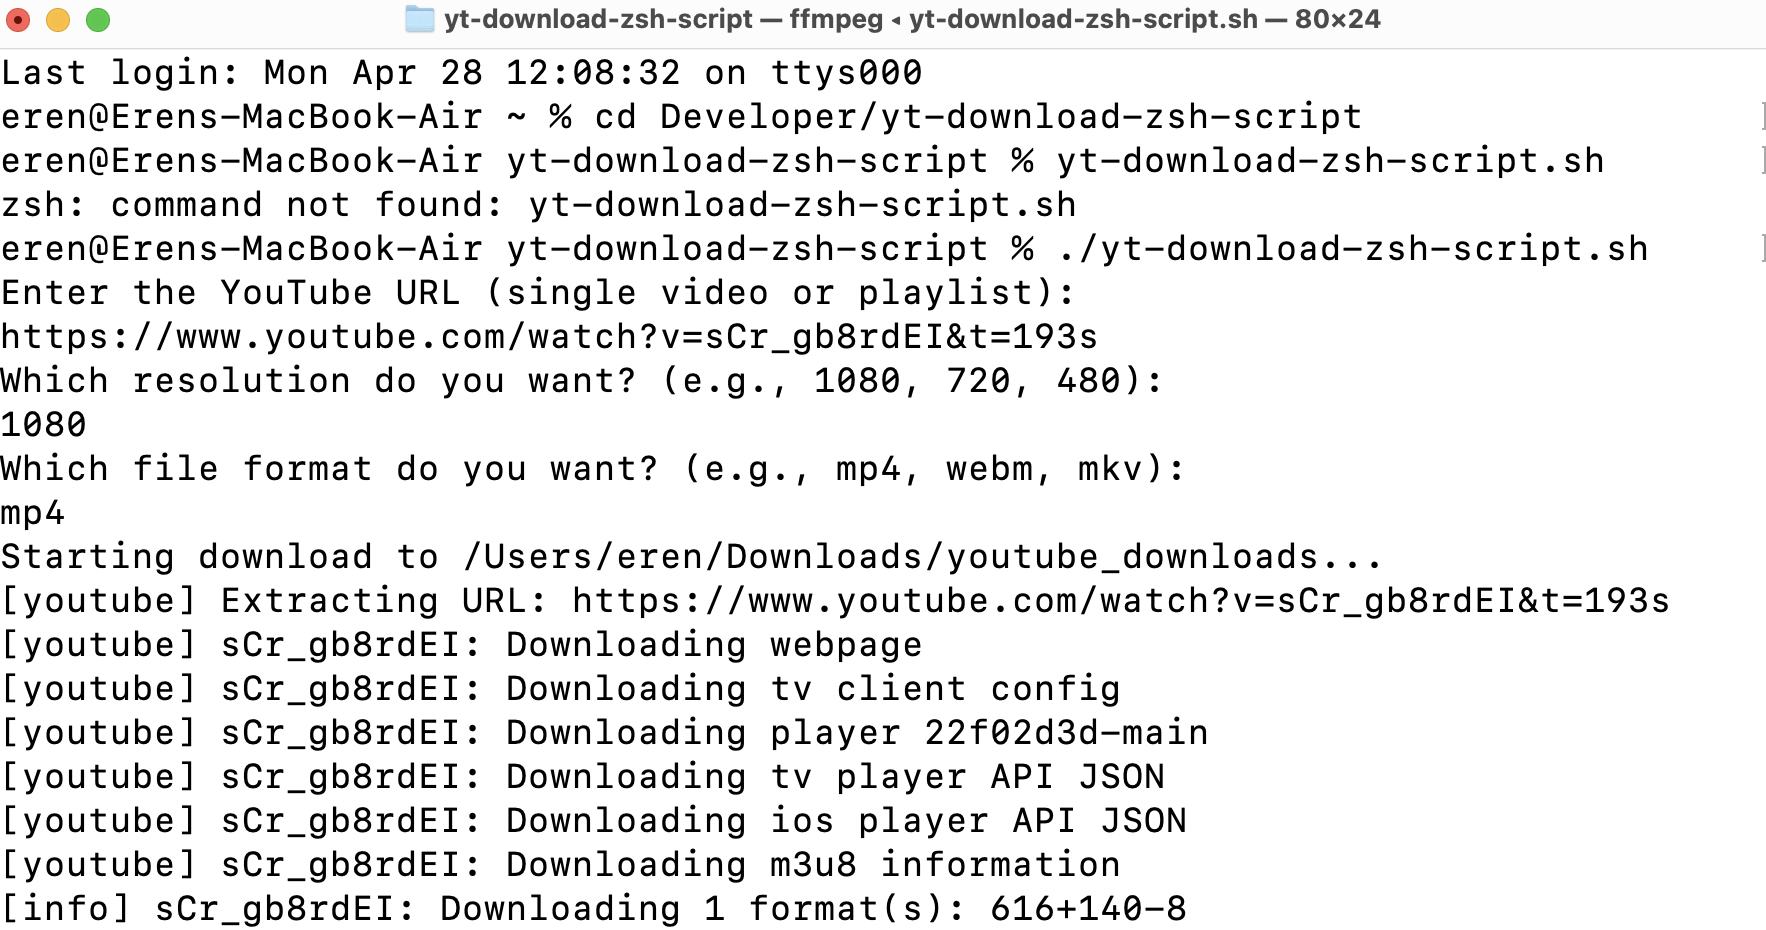
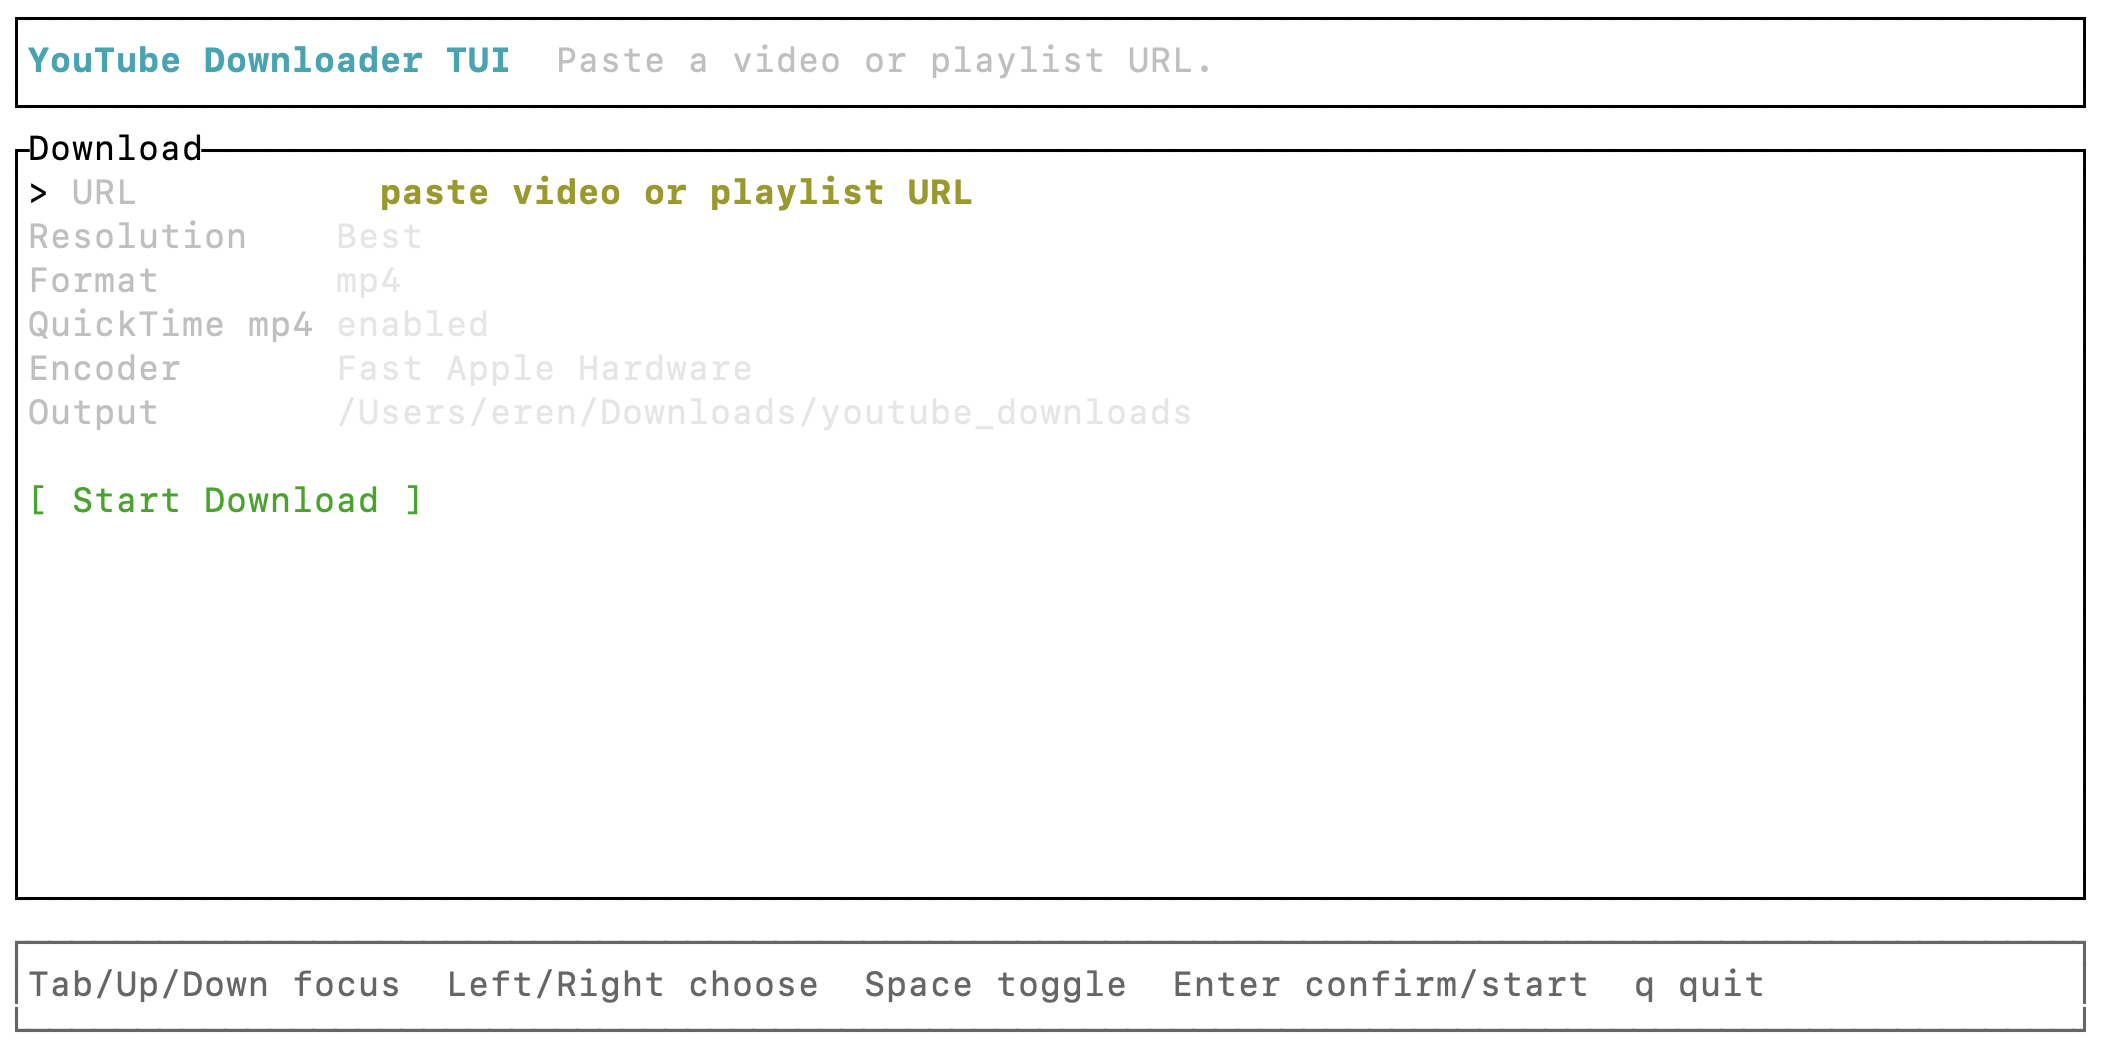
feat: add selectable QuickTime encoder mode

diff --git a/src/main.rs b/src/main.rs
@@ -82,6 +82,7 @@ enum Focus {
     Resolution,
     Format,
     Convert,
+    Encoder,
     Start,
 }
 
@@ -91,7 +92,8 @@ impl Focus {
             Self::Url => Self::Resolution,
             Self::Resolution => Self::Format,
             Self::Format => Self::Convert,
-            Self::Convert => Self::Start,
+            Self::Convert => Self::Encoder,
+            Self::Encoder => Self::Start,
             Self::Start => Self::Url,
         }
     }
@@ -102,7 +104,40 @@ impl Focus {
             Self::Resolution => Self::Url,
             Self::Format => Self::Resolution,
             Self::Convert => Self::Format,
-            Self::Start => Self::Convert,
+            Self::Encoder => Self::Convert,
+            Self::Start => Self::Encoder,
+        }
+    }
+}
+
+#[derive(Clone, Copy, Debug, Eq, PartialEq)]
+enum EncoderMode {
+    AppleHardware,
+    CpuX264,
+}
+
+impl Default for EncoderMode {
+    fn default() -> Self {
+        if cfg!(target_os = "macos") {
+            Self::AppleHardware
+        } else {
+            Self::CpuX264
+        }
+    }
+}
+
+impl EncoderMode {
+    fn label(self) -> &'static str {
+        match self {
+            Self::AppleHardware => "Fast Apple Hardware",
+            Self::CpuX264 => "Smaller CPU x264",
+        }
+    }
+
+    fn next(self) -> Self {
+        match self {
+            Self::AppleHardware => Self::CpuX264,
+            Self::CpuX264 => Self::AppleHardware,
         }
     }
 }
@@ -128,6 +163,7 @@ struct App {
     resolution_idx: usize,
     format_idx: usize,
     convert: bool,
+    encoder_mode: EncoderMode,
     output_dir: PathBuf,
     logs: VecDeque<String>,
     progress: Option<Progress>,
@@ -145,6 +181,7 @@ impl Default for App {
             resolution_idx: 0,
             format_idx: 0,
             convert: true,
+            encoder_mode: EncoderMode::default(),
             output_dir: default_output_dir(),
             logs: VecDeque::new(),
             progress: None,
@@ -236,6 +273,7 @@ impl App {
                 self.format_idx = cycle_index(self.format_idx, FORMATS.len(), direction);
             }
             Focus::Convert => self.convert = !self.convert,
+            Focus::Encoder => self.encoder_mode = self.encoder_mode.next(),
             _ => {}
         }
     }
@@ -261,6 +299,7 @@ impl App {
         let format = FORMATS[self.format_idx].to_string();
         let output_dir = self.output_dir.clone();
         let convert = self.convert;
+        let encoder_mode = self.encoder_mode;
         let (tx, rx) = mpsc::channel();
 
         thread::spawn(move || {
@@ -272,6 +311,7 @@ impl App {
                     format,
                     output_dir,
                     convert,
+                    encoder_mode,
                 },
             );
         });
@@ -334,6 +374,7 @@ struct JobConfig {
     format: String,
     output_dir: PathBuf,
     convert: bool,
+    encoder_mode: EncoderMode,
 }
 
 fn run_download_job(tx: Sender<WorkerEvent>, config: JobConfig) {
@@ -355,6 +396,9 @@ fn run_download_job_inner(tx: &Sender<WorkerEvent>, config: &JobConfig) -> Resul
     send_log(tx, format!("Output: {}", config.output_dir.display()));
     send_log(tx, format!("Resolution: {}", config.resolution));
     send_log(tx, format!("Format: {}", config.format));
+    if config.convert {
+        send_log(tx, format!("Encoder: {}", config.encoder_mode.label()));
+    }
 
     let selector = format_selector(&config.format, &config.resolution);
     let output_template = config.output_dir.join("%(title)s.%(ext)s");
@@ -391,7 +435,7 @@ fn run_download_job_inner(tx: &Sender<WorkerEvent>, config: &JobConfig) -> Resul
 
     if config.convert {
         let files = new_downloaded_files(&config.output_dir, &config.format, &before, started_at);
-        convert_files(tx, files)?;
+        convert_files(tx, files, config.encoder_mode)?;
     }
 
     let message = if config.convert {
@@ -456,7 +500,11 @@ where
     });
 }
 
-fn convert_files(tx: &Sender<WorkerEvent>, files: Vec<PathBuf>) -> Result<(), String> {
+fn convert_files(
+    tx: &Sender<WorkerEvent>,
+    files: Vec<PathBuf>,
+    encoder_mode: EncoderMode,
+) -> Result<(), String> {
     if files.is_empty() {
         send_log(
             tx,
@@ -464,6 +512,16 @@ fn convert_files(tx: &Sender<WorkerEvent>, files: Vec<PathBuf>) -> Result<(), St
         );
         return Ok(());
     }
+
+    let requested_encoder_mode = encoder_mode;
+    let encoder_mode = effective_encoder_mode(encoder_mode);
+    if encoder_mode != requested_encoder_mode {
+        send_log(
+            tx,
+            "Apple hardware encoding is only available on macOS; using CPU x264 instead.",
+        );
+    }
+    send_log(tx, format!("Converting with {}", encoder_mode.label()));
 
     for (index, file) in files.iter().enumerate() {
         let output = fixed_mp4_path(file);
@@ -494,23 +552,23 @@ fn convert_files(tx: &Sender<WorkerEvent>, files: Vec<PathBuf>) -> Result<(), St
             detail: detail.clone(),
         }));
 
-        let mut child = Command::new("ffmpeg")
+        let mut command = Command::new("ffmpeg");
+        command
             .arg("-y")
             .arg("-nostats")
             .arg("-progress")
             .arg("pipe:1")
             .arg("-i")
-            .arg(file)
-            .arg("-c:v")
-            .arg("libx264")
-            .arg("-preset")
-            .arg("fast")
-            .arg("-crf")
-            .arg("23")
+            .arg(file);
+        append_video_encoder_args(&mut command, encoder_mode);
+
+        let mut child = command
             .arg("-c:a")
             .arg("aac")
             .arg("-b:a")
             .arg("128k")
+            .arg("-movflags")
+            .arg("+faststart")
             .arg(&output)
             .stdout(Stdio::piped())
             .stderr(Stdio::piped())
@@ -550,6 +608,39 @@ fn convert_files(tx: &Sender<WorkerEvent>, files: Vec<PathBuf>) -> Result<(), St
     }));
 
     Ok(())
+}
+
+fn effective_encoder_mode(encoder_mode: EncoderMode) -> EncoderMode {
+    if encoder_mode == EncoderMode::AppleHardware && !cfg!(target_os = "macos") {
+        EncoderMode::CpuX264
+    } else {
+        encoder_mode
+    }
+}
+
+fn append_video_encoder_args(command: &mut Command, encoder_mode: EncoderMode) {
+    match encoder_mode {
+        EncoderMode::AppleHardware => {
+            command
+                .arg("-c:v")
+                .arg("h264_videotoolbox")
+                .arg("-b:v")
+                .arg("6000k")
+                .arg("-pix_fmt")
+                .arg("yuv420p");
+        }
+        EncoderMode::CpuX264 => {
+            command
+                .arg("-c:v")
+                .arg("libx264")
+                .arg("-preset")
+                .arg("fast")
+                .arg("-crf")
+                .arg("23")
+                .arg("-pix_fmt")
+                .arg("yuv420p");
+        }
+    }
 }
 
 #[derive(Clone)]
@@ -721,6 +812,15 @@ fn draw_form(frame: &mut Frame, app: &App, area: Rect) {
             app.focus == Focus::Convert,
             "QuickTime mp4",
             if app.convert { "enabled" } else { "disabled" },
+        ),
+        selectable_line(
+            app.focus == Focus::Encoder,
+            "Encoder",
+            if app.convert {
+                app.encoder_mode.label()
+            } else {
+                "not used"
+            },
         ),
         selectable_line(
             false,

diff --git a/README.md b/README.md
@@ -26,6 +26,7 @@ The current TUI is an MVP with:
 - Resolution selection
 - Output format selection
 - QuickTime conversion toggle
+- Encoder selection for fast Apple hardware encoding or smaller CPU x264 output
 - Live `yt-dlp` / `ffmpeg` logs
 - Download and conversion progress when the tools report timing output
 - Result screen with new-download and open-folder actions
@@ -35,7 +36,7 @@ The current TUI is an MVP with:
 ## Features
 
 - macOS-first terminal workflow for Terminal.app, iTerm2, and similar terminal emulators
-- Ratatui form for URL, resolution, format, and QuickTime conversion
+- Ratatui form for URL, resolution, format, QuickTime conversion, and encoder mode
 - Supports single videos and playlists through `yt-dlp`
 - Live terminal logs with download and conversion progress
 - Optional conversion to `fixed-*.mp4` for QuickTime Player compatibility
@@ -50,6 +51,7 @@ This project is designed around common macOS defaults:
 
 - Downloads go to `~/Downloads/youtube_downloads`.
 - QuickTime conversion creates H.264/AAC `.mp4` files, which are friendly to QuickTime Player, Finder preview, and AirDrop workflows.
+- Apple Hardware mode uses FFmpeg's VideoToolbox encoder on macOS for faster conversion on Apple Silicon and supported Intel Macs.
 - The result screen can open the output folder with the macOS `open` command.
 - Homebrew is the recommended way to install Rust, `yt-dlp`, and `ffmpeg`.
 - The intended release targets are Apple Silicon (`aarch64-apple-darwin`) and Intel Macs (`x86_64-apple-darwin`).
@@ -127,12 +129,13 @@ The app opens a terminal UI with these fields:
 - `Resolution`: `Best`, `1080`, `720`, or `480`
 - `Format`: `mp4`, `webm`, or `mkv`
 - `QuickTime mp4`: whether to create macOS-friendly `fixed-*.mp4` files after download
+- `Encoder`: `Fast Apple Hardware` or `Smaller CPU x264`
 - `Output`: currently fixed to `~/Downloads/youtube_downloads`
 
 Controls inside the TUI:
 
 - `Tab`, `Up`, `Down`: move between fields
-- `Left`, `Right`: change resolution or format
+- `Left`, `Right`: change resolution, format, or encoder mode
 - `Space`: toggle QuickTime conversion
 - `Enter`: confirm/start, or start a new download on the result screen
 - `o`: open output folder on the result screen
@@ -144,8 +147,11 @@ The TUI flow:
 2. Choose resolution: `Best`, `1080`, `720`, or `480`.
 3. Choose output format: `mp4`, `webm`, or `mkv`.
 4. Decide whether to create QuickTime-compatible `fixed-*.mp4` files for macOS playback.
-5. Start the download and watch progress/logs.
-6. Review the result screen.
+5. Choose an encoder mode:
+   - `Fast Apple Hardware`: uses `h264_videotoolbox`; best for speed on Apple Silicon.
+   - `Smaller CPU x264`: uses `libx264`; slower, but usually better size/quality control.
+6. Start the download and watch progress/logs.
+7. Review the result screen.
 
 ---
 
@@ -166,6 +172,8 @@ fixed-original-title.mp4
 
 The converted file uses H.264 video and AAC audio in an `.mp4` container, which is the safest default for QuickTime Player on macOS.
 
+`Fast Apple Hardware` uses a bitrate-based VideoToolbox encode. `Smaller CPU x264` uses CRF-based x264 encoding and usually produces more size-efficient files, but it takes longer.
+
 The exact original extension depends on the selected format and what `yt-dlp` can obtain from YouTube.
 
 ---
@@ -176,6 +184,8 @@ The TUI delegates the actual media work to proven command line tools:
 
 - `yt-dlp` handles video and playlist downloads.
 - `ffmpeg` handles QuickTime-friendly H.264/AAC conversion.
+- `h264_videotoolbox` is used for fast hardware encoding when `Fast Apple Hardware` is selected.
+- `libx264` is used when `Smaller CPU x264` is selected.
 
 For `Best`, the app asks `yt-dlp` for the best available video and audio combination. For fixed resolutions like `1080`, `720`, or `480`, it asks for the best available stream at or below that height.
 
